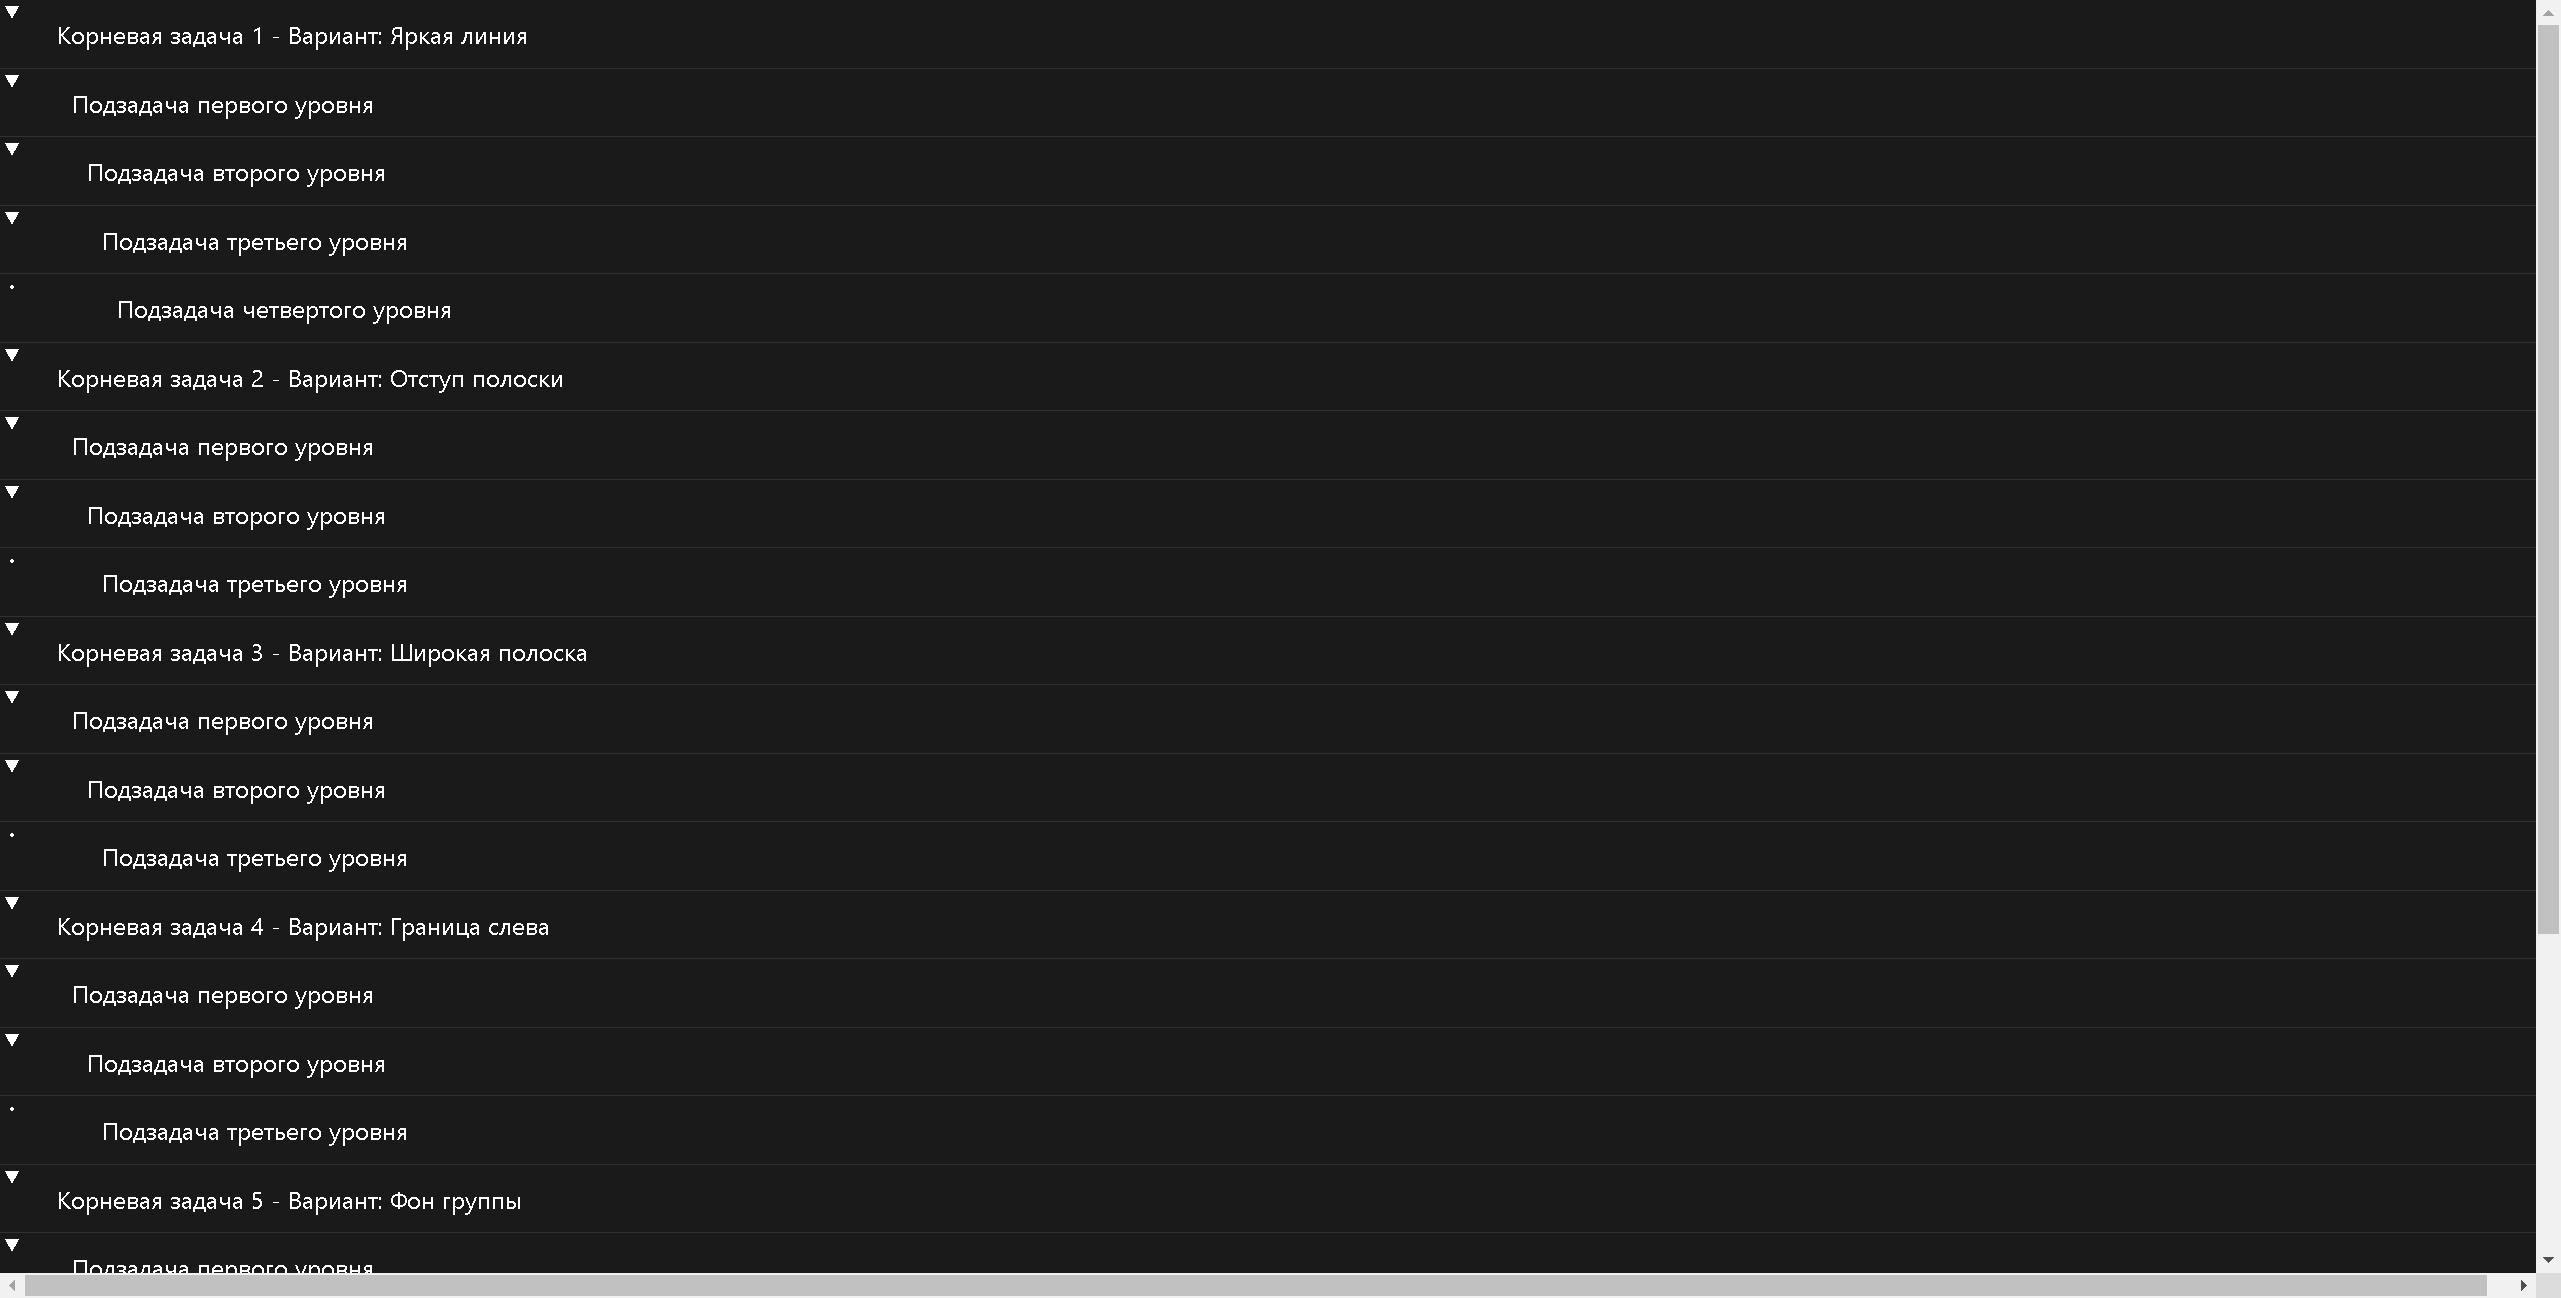
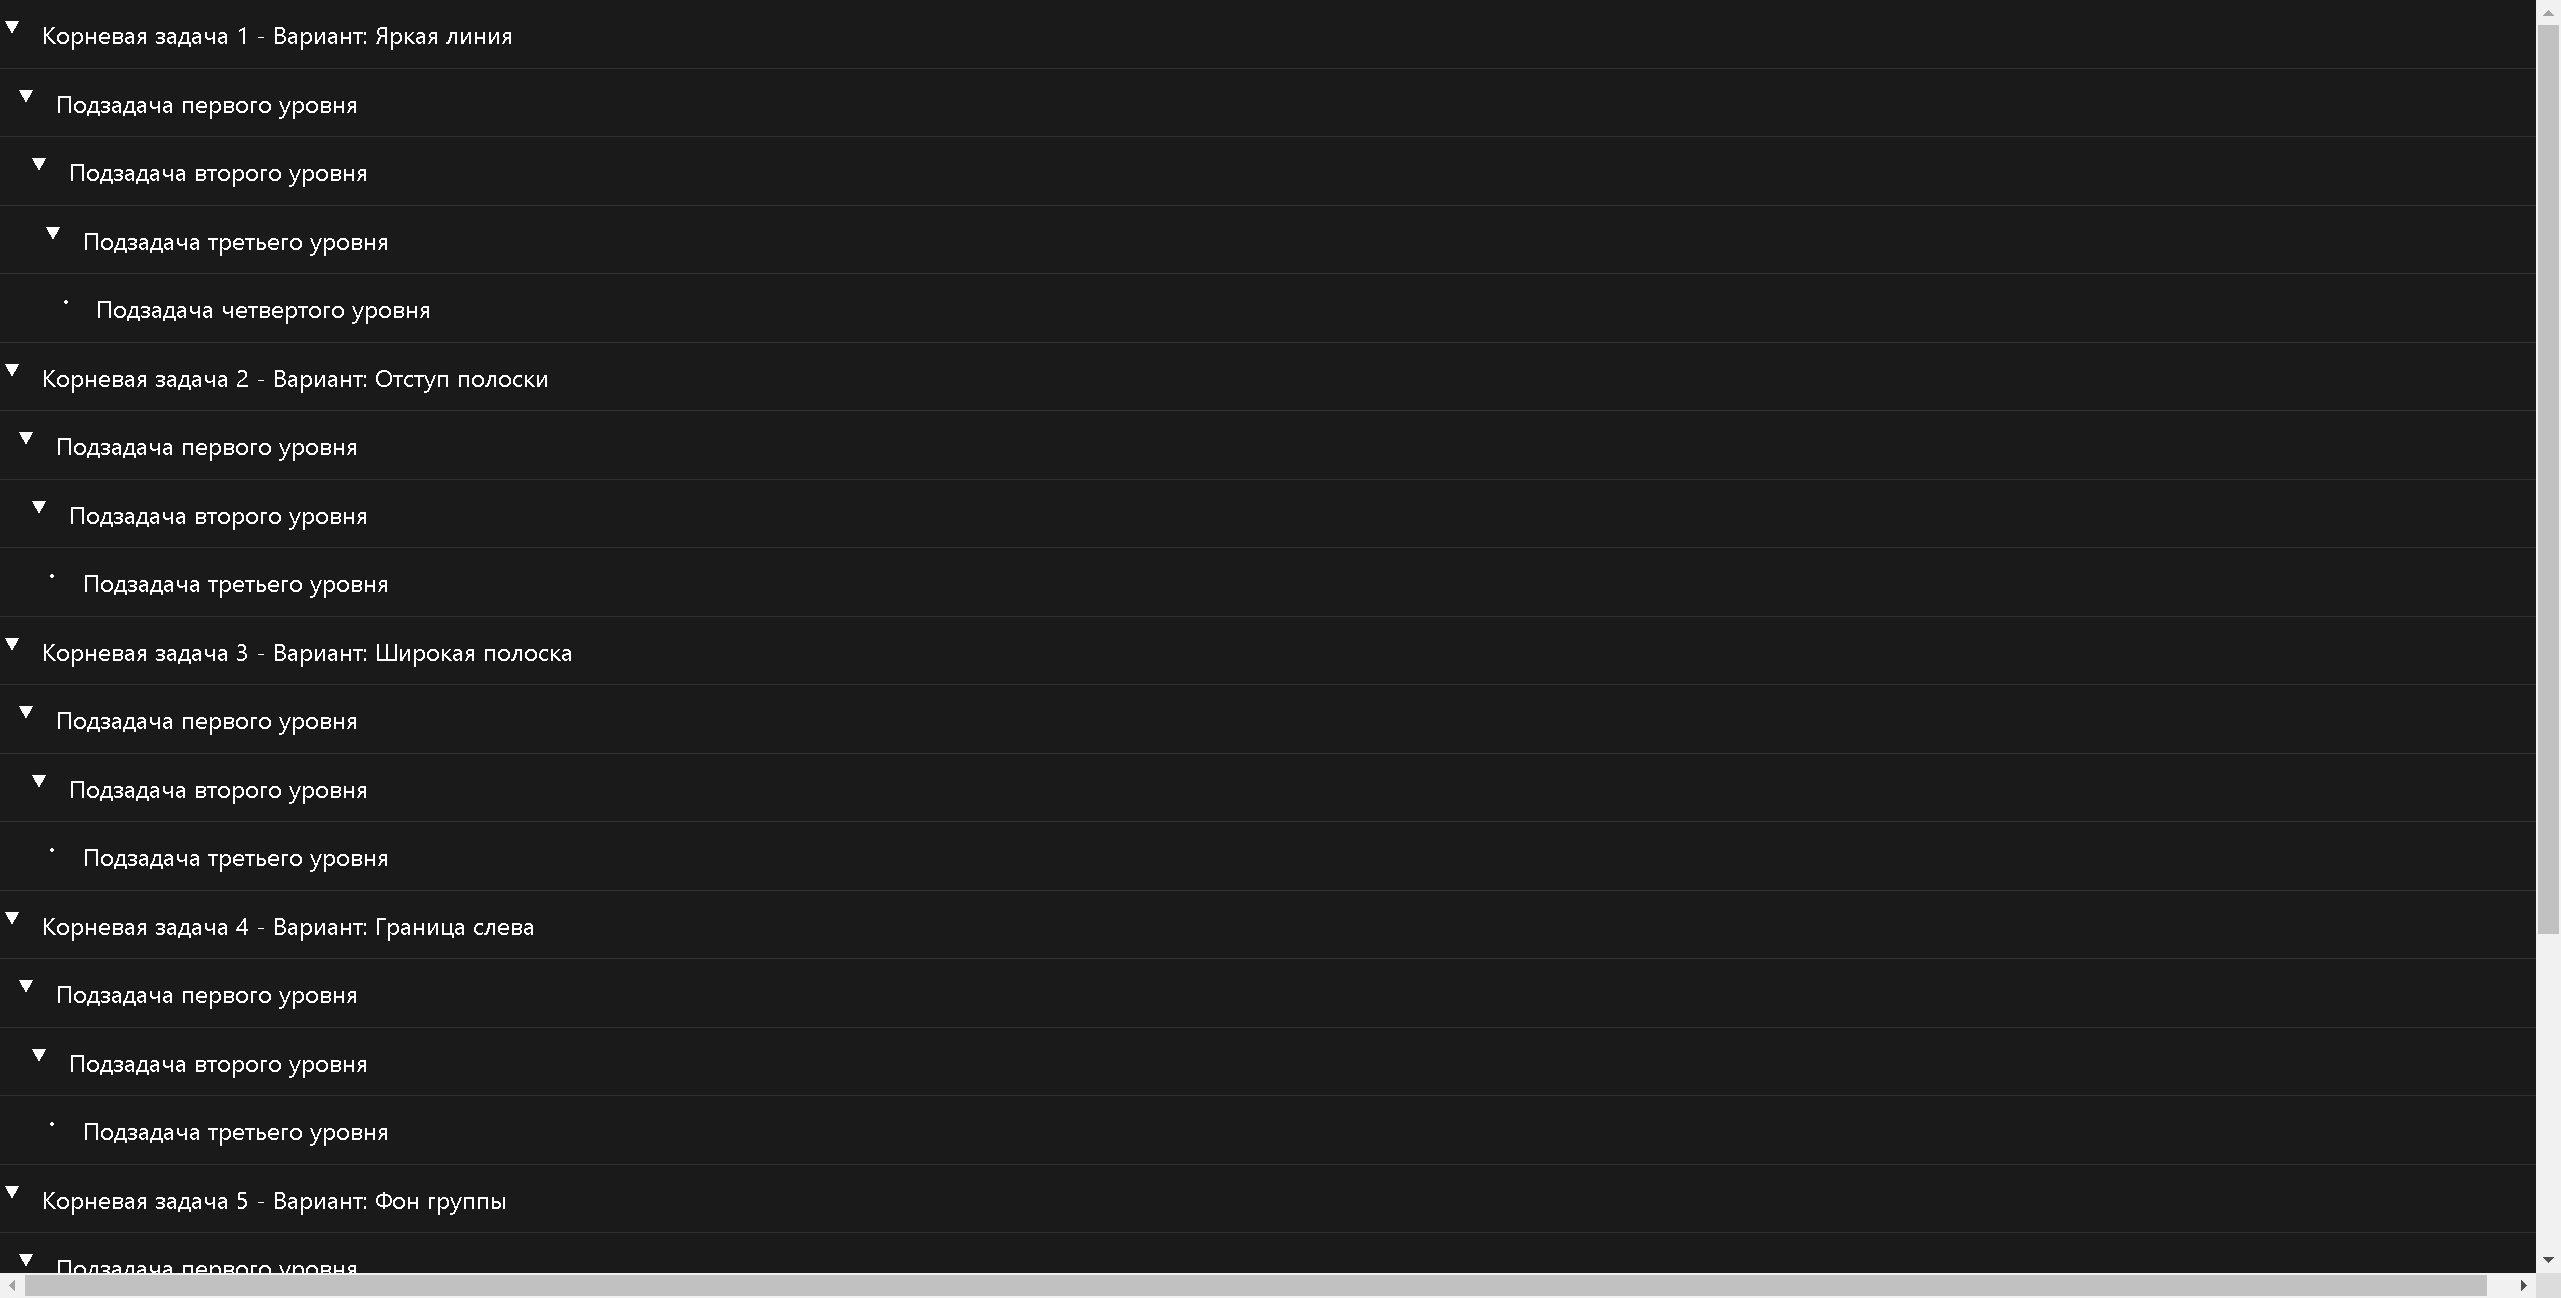
todo

diff --git a/todo.html b/todo.html
@@ -28,7 +28,8 @@
         width: 100%;
         height: 100%;
         pointer-events: none;
-        z-index: 0;
+        z-index: 1;
+        overflow: visible;
       }
       .task {
         width: 100%;
@@ -36,12 +37,10 @@
         border-bottom: 1px solid rgba(255, 255, 255, 0.1);
         display: flex;
         position: relative;
+        align-items: flex-start;
       }
       .task-hierarchy {
-        position: relative;
-        flex-shrink: 0;
-        width: 10px;
-        min-width: 10px;
+        display: none;
       }
       .task-expander {
         flex-shrink: 0;
@@ -51,7 +50,7 @@
         align-items: flex-start;
         justify-content: center;
         cursor: pointer;
-        padding-top: 2px;
+        padding-top: 12px;
         color: inherit;
         user-select: none;
       }
@@ -87,8 +86,8 @@
         z-index: 1;
       }
       .hierarchy-svg-line {
-        stroke: rgba(255, 255, 255, 0.7);
-        stroke-width: 1;
+        stroke: rgba(255, 255, 255, 0.7) !important;
+        stroke-width: 2 !important;
         fill: none;
       }
       .hierarchy-svg-dot {
@@ -96,7 +95,7 @@
       }
       .task-content {
         position: relative;
-        z-index: 1;
+        z-index: 0;
       }
       .task-group-separator {
         height: 20px;
@@ -422,6 +421,9 @@
         const expanderEl = document.createElement('div');
         expanderEl.className = 'task-expander';
         expanderEl.dataset.taskId = task.id;
+        const level = calculateLevel(task, todos);
+        expanderEl.dataset.level = level;
+        expanderEl.style.marginLeft = `${level * 9}px`;
         
         const iconEl = document.createElement('div');
         iconEl.className = 'task-expander-icon';
@@ -469,17 +471,6 @@
         return siblings.length === 0 || siblings[siblings.length - 1].id === task.id;
       }
       
-      function createTaskHierarchy(task, todos) {
-        const currentLevel = calculateLevel(task, todos);
-        
-        const hierarchyEl = document.createElement('div');
-        hierarchyEl.className = 'task-hierarchy';
-        hierarchyEl.style.width = `${10 + currentLevel * 10}px`;
-        hierarchyEl.style.minWidth = `${10 + currentLevel * 10}px`;
-        
-        return hierarchyEl;
-      }
-      
       function getLastDescendant(task, todos) {
         const children = todos.filter(t => t.parentId === task.id && !t.completed).sort((a, b) => (a.order || 0) - (b.order || 0));
         if (children.length === 0) return task;
@@ -491,18 +482,6 @@
         const children = todos.filter(t => t.parentId === task.id && !t.completed && isTaskVisible(t, todos)).sort((a, b) => (a.order || 0) - (b.order || 0));
         if (children.length === 0) return task;
         return getLastVisibleDescendant(children[children.length - 1], todos);
-      }
-      
-      function getExpanderPosition(taskId, container) {
-        const expanderEl = container.querySelector(`.task-expander[data-task-id="${taskId}"]`);
-        if (!expanderEl) return null;
-        const rect = expanderEl.getBoundingClientRect();
-        const containerRect = container.getBoundingClientRect();
-        return {
-          top: rect.top - containerRect.top + container.scrollTop,
-          bottom: rect.bottom - containerRect.top + container.scrollTop,
-          height: rect.height
-        };
       }
       
       function drawHierarchyLines(todos, container) {
@@ -518,11 +497,17 @@
         
         const taskElements = Array.from(container.querySelectorAll('.task'));
         const taskElementMap = new Map();
-        const tasksInOrder = [];
         taskElements.forEach(el => {
           const taskId = el.dataset.taskId;
           if (taskId) {
             taskElementMap.set(taskId, el);
+          }
+        });
+        
+        const tasksInOrder = [];
+        taskElements.forEach(el => {
+          const taskId = el.dataset.taskId;
+          if (taskId) {
             tasksInOrder.push({ id: taskId, element: el });
           }
         });
@@ -544,9 +529,12 @@
           if (!expanderEl) return null;
           const rect = expanderEl.getBoundingClientRect();
           return {
+            left: rect.left - containerRect.left,
             top: rect.top - containerRect.top + scrollTop,
             bottom: rect.bottom - containerRect.top + scrollTop,
-            height: rect.height
+            height: rect.height,
+            width: rect.width,
+            centerX: rect.left - containerRect.left + rect.width / 2
           };
         };
         
@@ -556,45 +544,31 @@
           const taskRect = getTaskRect(task.id);
           if (!taskRect) return;
           
-          const level = calculateLevel(task, todos);
-          const lineX = 9 + level * 10;
+          const expanderRect = getExpanderRect(task.id);
+          if (!expanderRect) return;
           
           if (task.parentId) {
             const parent = todos.find(t => t.id === task.parentId);
             if (parent) {
-              const parentLevel = calculateLevel(parent, todos);
-              const parentLineX = 9 + parentLevel * 10;
-              
-              const horizontalLine = document.createElementNS('http://www.w3.org/2000/svg', 'line');
-              horizontalLine.setAttribute('x1', parentLineX);
-              horizontalLine.setAttribute('y1', taskRect.center);
-              horizontalLine.setAttribute('x2', parentLineX + 10);
-              horizontalLine.setAttribute('y2', taskRect.center);
-              horizontalLine.setAttribute('class', 'hierarchy-svg-line');
-              svg.appendChild(horizontalLine);
-              
-              const dot = document.createElementNS('http://www.w3.org/2000/svg', 'circle');
-              dot.setAttribute('cx', parentLineX + 10);
-              dot.setAttribute('cy', taskRect.center);
-              dot.setAttribute('r', 2);
-              dot.setAttribute('class', 'hierarchy-svg-dot');
-              svg.appendChild(dot);
+              const parentExpanderRect = getExpanderRect(parent.id);
+              if (parentExpanderRect) {
+                const horizontalLine = document.createElementNS('http://www.w3.org/2000/svg', 'line');
+                horizontalLine.setAttribute('x1', (parentExpanderRect.left + parentExpanderRect.width).toString());
+                horizontalLine.setAttribute('y1', taskRect.center.toString());
+                horizontalLine.setAttribute('x2', expanderRect.left.toString());
+                horizontalLine.setAttribute('y2', taskRect.center.toString());
+                horizontalLine.setAttribute('class', 'hierarchy-svg-line');
+                horizontalLine.setAttribute('stroke', 'rgba(255, 255, 255, 0.9)');
+                horizontalLine.setAttribute('stroke-width', '2');
+                svg.appendChild(horizontalLine);
+                const dot = document.createElementNS('http://www.w3.org/2000/svg', 'circle');
+                dot.setAttribute('cx', expanderRect.left.toString());
+                dot.setAttribute('cy', taskRect.center.toString());
+                dot.setAttribute('r', 2);
+                dot.setAttribute('class', 'hierarchy-svg-dot');
+                svg.appendChild(dot);
+              }
             }
-          } else {
-            const horizontalLine = document.createElementNS('http://www.w3.org/2000/svg', 'line');
-            horizontalLine.setAttribute('x1', lineX);
-            horizontalLine.setAttribute('y1', taskRect.center);
-            horizontalLine.setAttribute('x2', lineX + 10);
-            horizontalLine.setAttribute('y2', taskRect.center);
-            horizontalLine.setAttribute('class', 'hierarchy-svg-line');
-            svg.appendChild(horizontalLine);
-            
-            const dot = document.createElementNS('http://www.w3.org/2000/svg', 'circle');
-            dot.setAttribute('cx', lineX);
-            dot.setAttribute('cy', taskRect.center);
-            dot.setAttribute('r', 2);
-            dot.setAttribute('class', 'hierarchy-svg-dot');
-            svg.appendChild(dot);
           }
         });
         
@@ -610,26 +584,35 @@
           const parentRect = getTaskRect(parentTask.id);
           if (!parentRect) return;
           
+          const parentExpanderRect = getExpanderRect(parentTask.id);
+          if (!parentExpanderRect) return;
+          
           const parentIndex = tasksInOrder.findIndex(t => t.id === parentTask.id);
           if (parentIndex === -1) return;
           
-          const lineX = 9 + parentLevel * 10;
+          const lineX = parentExpanderRect.centerX;
           let lineTop, lineBottom;
           
           if (!parentTask.collapsed) {
-            const expanderRect = getExpanderRect(parentTask.id);
-            if (expanderRect) {
-              lineTop = expanderRect.bottom;
-            } else {
-              lineTop = parentRect.top;
-            }
+            lineTop = parentExpanderRect.bottom;
             
-            const lastVisibleDescendant = getLastVisibleDescendant(parentTask, todos);
-            const lastDescendantRect = getTaskRect(lastVisibleDescendant.id);
-            if (lastDescendantRect) {
-              lineBottom = lastDescendantRect.center;
+            const children = todos.filter(t => t.parentId === parentTask.id && !t.completed && isTaskVisible(t, todos));
+            if (children.length > 0) {
+              const lastVisibleDescendant = getLastVisibleDescendant(parentTask, todos);
+              const lastDescendantRect = getTaskRect(lastVisibleDescendant.id);
+              if (lastDescendantRect) {
+                lineBottom = lastDescendantRect.bottom;
+              } else {
+                const lastChild = children[children.length - 1];
+                const lastChildRect = getTaskRect(lastChild.id);
+                if (lastChildRect) {
+                  lineBottom = lastChildRect.bottom;
+                } else {
+                  return;
+                }
+              }
             } else {
-              lineBottom = parentRect.center;
+              return;
             }
           } else {
             for (let i = parentIndex + 1; i < tasksInOrder.length; i++) {
@@ -652,20 +635,30 @@
             if (lineTop === undefined) return;
           }
           
-          if (lineTop !== undefined && lineBottom !== undefined && lineBottom > lineTop) {
+          if (lineTop !== undefined && lineBottom !== undefined && lineBottom > lineTop && lineX > 0) {
             const verticalLine = document.createElementNS('http://www.w3.org/2000/svg', 'line');
-            verticalLine.setAttribute('x1', lineX);
-            verticalLine.setAttribute('y1', lineTop);
-            verticalLine.setAttribute('x2', lineX);
-            verticalLine.setAttribute('y2', lineBottom);
+            verticalLine.setAttribute('x1', lineX.toString());
+            verticalLine.setAttribute('y1', lineTop.toString());
+            verticalLine.setAttribute('x2', lineX.toString());
+            verticalLine.setAttribute('y2', lineBottom.toString());
             verticalLine.setAttribute('class', 'hierarchy-svg-line');
+            verticalLine.setAttribute('stroke', 'rgba(255, 255, 255, 0.9)');
+            verticalLine.setAttribute('stroke-width', '2');
             svg.appendChild(verticalLine);
           }
         });
         
         const containerHeight = Math.max(container.scrollHeight, containerRect.height);
-        svg.setAttribute('width', '100%');
-        svg.setAttribute('height', `${containerHeight}px`);
+        svg.setAttribute('width', containerRect.width.toString());
+        svg.setAttribute('height', containerHeight.toString());
+        svg.setAttribute('viewBox', `0 0 ${containerRect.width} ${containerHeight}`);
+        svg.setAttribute('preserveAspectRatio', 'none');
+        svg.style.width = '100%';
+        svg.style.height = `${containerHeight}px`;
+        svg.style.position = 'absolute';
+        svg.style.top = '0';
+        svg.style.left = '0';
+        
       }
       
       function renderTask(task, todos, container) {
@@ -682,7 +675,6 @@
           }
           
           const expanderEl = createTaskExpander(task, todos);
-          const hierarchyEl = createTaskHierarchy(task, todos);
           
           const contentEl = document.createElement('div');
           contentEl.className = 'task-content';
@@ -701,7 +693,6 @@
           const actionsEl = createTaskActions(task.id);
           
           taskEl.appendChild(expanderEl);
-          taskEl.appendChild(hierarchyEl);
           taskEl.appendChild(contentEl);
           taskEl.appendChild(actionsEl);
           container.appendChild(taskEl);
@@ -734,16 +725,14 @@
           let expanderEl = taskEl.querySelector('.task-expander');
           if (!expanderEl) {
             expanderEl = createTaskExpander(task, todos);
-            const hierarchyEl = taskEl.querySelector('.task-hierarchy');
-            if (hierarchyEl) {
-              taskEl.insertBefore(expanderEl, hierarchyEl);
-            } else {
-              const contentEl = taskEl.querySelector('.task-content');
-              if (contentEl) {
-                taskEl.insertBefore(expanderEl, contentEl);
-              }
+            const contentEl = taskEl.querySelector('.task-content');
+            if (contentEl) {
+              taskEl.insertBefore(expanderEl, contentEl);
             }
           } else {
+            const taskLevel = calculateLevel(task, todos);
+            expanderEl.dataset.level = taskLevel;
+            expanderEl.style.marginLeft = `${taskLevel * 9}px`;
             const iconEl = expanderEl.querySelector('.task-expander-icon');
             if (iconEl) {
               const hasChildrenTasks = hasChildren(task, todos);
@@ -754,14 +743,6 @@
               } else {
                 iconEl.textContent = '▼';
               }
-            }
-          }
-          let hierarchyEl = taskEl.querySelector('.task-hierarchy');
-          if (!hierarchyEl) {
-            hierarchyEl = createTaskHierarchy(task, todos);
-            const contentEl = taskEl.querySelector('.task-content');
-            if (contentEl) {
-              taskEl.insertBefore(hierarchyEl, contentEl);
             }
           }
           let actionsEl = taskEl.querySelector('.task-actions');
